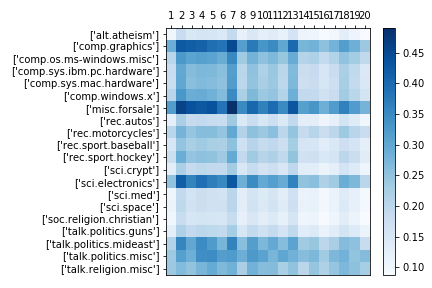
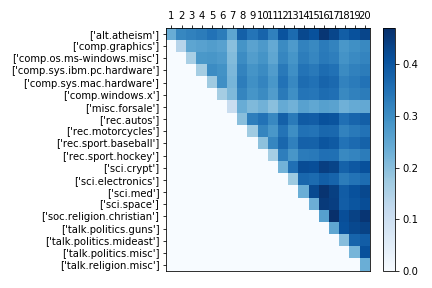
d

diff --git a/HW2/HW2.py b/HW2/HW2.py
@@ -68,7 +68,13 @@ def importFiles2():
         reader1 = csv.reader(a)
         rowNum = 0
         for row1 in reader1:
-            main2[int(row1[0]) - 1, int(row1[1] )- 1] = int(row1[2])
+            article = int(row1[0])
+            word = int(row1[1])
+            freq = int(row1[2])
+            main2[article - 1, word - 1] = freq
+    global sparse
+    sparse = csc_matrix(main2)
+     
         
     with open('groups.csv', 'rb') as b:
         reader2 = csv.reader(b)
@@ -128,6 +134,12 @@ def L2Subroutine(article1, article2):
             diffTot += set2[i, 1] ** 2
     return (diffTot ** (0.5)) * -1.0 #returns negation of sqrt of diffTotal
     
+def L2Subroutine2(article1, article2):
+    sparse = csc_matrix(main2)
+    minus = sparse.getrow(article1-1) - sparse.getrow(article2-1)
+    return (minus.dot(minus.transpose())[0, 0]) ** 0.5
+    
+    
 def cosineSubroutine(article1, article2):
     num = 0.0
     den1 = 0.0 
@@ -156,13 +168,12 @@ def cosineSubroutine(article1, article2):
         return (num / (den1 * den2))
     
 def cosineSubroutine2(article1, article2):
-    sparse = csc_matrix(main2)
-
+    #sparse = csc_matrix(main2)
     list1 = sparse.getrow(article1-1)
     list2 = sparse.getrow(article2-1)
     nom = list1.dot(list2.transpose())[0, 0]
-    den1 = list1.dot(list1.transpose())[0,0]
-    den2 = list2.dot(list2.transpose())[0,0]
+    den1 = list1.dot(list1.transpose())[0,0] ** 0.5
+    den2 = list2.dot(list2.transpose())[0,0] ** 0.5
     if ((den1 == 0.0) | (den2 == 0.0) | (nom == 0.0)):
         return 0
     else:
@@ -187,7 +198,7 @@ def jaccMaster():
 def L2Master():
     for i in range(1000):
         for j in range(i, 1000):
-            temp = L2Subroutine(i,j)
+            temp = L2Subroutine2(i,j)
             temp /= 50
             dataL2[int(labels[i])-1, int(labels[j])-1] += temp
     #print(dataCos)
@@ -195,32 +206,37 @@ def L2Master():
     makeHeatMap(dataL2, groups, 'Blues', 'L2Map.png')
 
 def cosineMaster():
+    counter = 0
     for i in range(1000):
         for j in range(i, 1000):
+            counter += 1
             temp = cosineSubroutine2(i,j)
-            temp /= 50
+            print counter
+            temp /= 2500
             dataCos[int(labels[i])-1, int(labels[j])-1] += temp
-    #print(dataCos)
-    # np.divide(dataCos, (50.0 ** 3))
     makeHeatMap(dataCos, groups, 'Blues', 'cosMap.png')
 
 # Returns the category number of the article with the cosine similarity from the input article
 # Input: article number
 def cosineNN(article):
-    curMax = cosineSubroutine2(article, 1)
-    #print(curMax)
-    curNNGroup = int ( labels[0])
+    if article == 1:
+        curMax = cosineSubroutine2(article, 1)
+        curNNGroup = int ( labels[1])
+    else:
+        curMax = cosineSubroutine2(article, 0)
+        curNNGroup = int ( labels[0])
     for i in range (2, 1001):
-        cosineSim = cosineSubroutine2(article, i)
-        if (cosineSim > curMax):
-            curMax = cosineSim
-            curNNGroup = int( labels[i-1])
+        if (article != i):
+            cosineSim = cosineSubroutine2(article, i)
+            if (cosineSim > curMax):
+                curMax = cosineSim
+                curNNGroup = int( labels[i-1])
     return (curNNGroup)
     return curNNGroup
 
 # Iterates over all articles and increments the value of the cosineNN in a table
 # Prints the table as a heatmap
-def baselineCosineNN():
+def baselineCosineNN(articleName):
     baselineCosineNN = np.zeros(shape=(20,20)) #table for cosine NN heatmap
     errorCounter = 0.0
     for i in range (1, 1000):
@@ -230,7 +246,7 @@ def baselineCosineNN():
             errorCounter += 1
         baselineCosineNN[ownLabel - 1, NN - 1]  += 1.0
 
-    makeHeatMap(baselineCosineNN, groups, 'Blues', 'baselineCosineNN.png')
+    makeHeatMap(baselineCosineNN, groups, 'Blues', articleName)
     errorCounter /= 1000.0
     print("Average classification error: ") 
     print(errorCounter)
@@ -238,15 +254,18 @@ def baselineCosineNN():
 #Dimension reduction main function. Constructs d X 129532 matrix to reduce the
 # main 3 X 129532 matrix to a matrix of size d X 3
 def dimensionReduction():
-    dimArray = np.zeros(shape=(61067, 10),dtype=float)  # Main data table
+    #sparse = csc_matrix(main2)
+    dimArray = np.zeros(shape=(61067, 50),dtype=float)  # Main data table
     for j in dimArray:
         for k in j:
             j[k] = np.random.normal(0, 1)          
-    temp = np.dot(main2, dimArray)
+    temp = sparse.dot(dimArray)
     global main 
     main = temp
     #print(main)
-    baselineCosineNN()
+    baselineCosineNN('dimRed50.png')
+
+
     
 global main
 global main2
@@ -271,9 +290,8 @@ divArr = np.full((20,20),2500.)
 
     
 
-
 #jaccMaster()
 #L2Master()
-cosineMaster()
-#baselineCosineNN()
-#dimensionReduction()
+#cosineMaster()
+#baselineCosineNN('baselineCosineNN.png')
+dimensionReduction()
